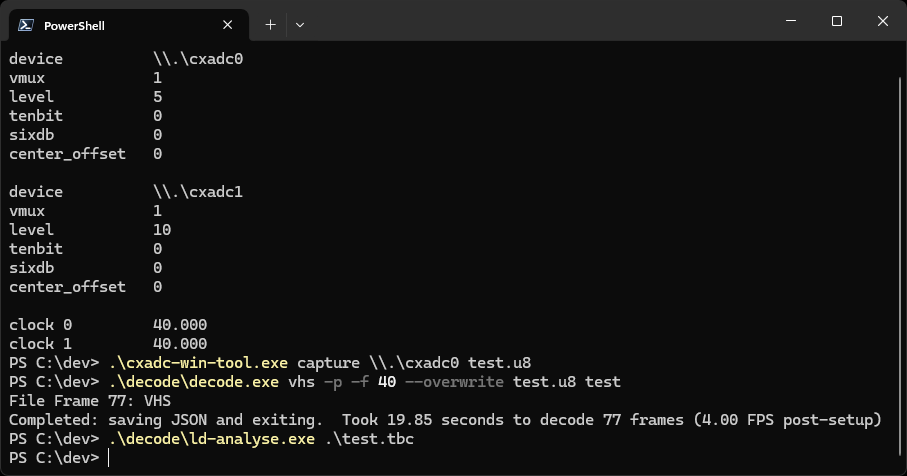
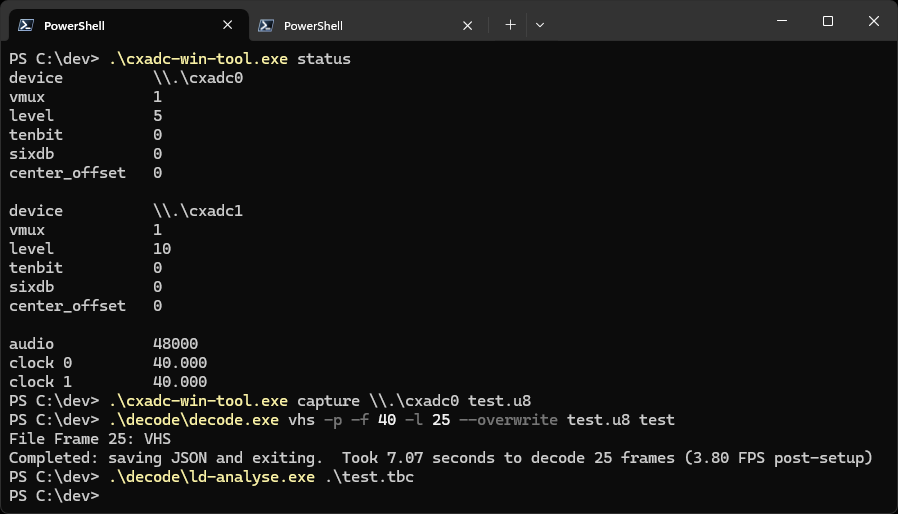
Add clockgen audio rate configuration

Changed region(s): [[0.0, 0.6471, 0.9978, 0.9706], [0.0, 0.0294, 1.0, 0.3529], [0.0, 0.3824, 0.2806, 0.6176]]

diff --git a/cxadc-win-tool/Program.cs b/cxadc-win-tool/Program.cs
@@ -207,43 +207,80 @@ levelAdjCommand.SetHandler((device, startingLevel, sampleCount) =>
 }, inputDeviceArg, levelAdjStartingLevelOption, levelAdjSampelCountOption);
 
 // clockgen command
-var clockIndexArg = new Argument<uint>("clock").FromAmong("0", "1");
-var clockValueArg = new Argument<uint>(
+var clockgenCxClockIndexArg = new Argument<uint>("clock").FromAmong("0", "1");
+var clockgenCxClockValueArg = new Argument<uint>(
     "value",
     description: "1 = 20.00 MHz, 2 = 28.636 MHz, 3 = 40.00 MHz, 4 = 50.000 MHz"
     ).FromAmong("1", "2", "3", "4");
 
-var clockgenGetCommand = new Command("get", "get frequency")
+var clockgenCxGetCommand = new Command("get", "get frequency")
 {
-    clockIndexArg
+    clockgenCxClockIndexArg
 };
 
-clockgenGetCommand.SetHandler((idx) =>
+clockgenCxGetCommand.SetHandler((idx) =>
 {
     using (clockgen = new Clockgen())
     {
         Console.WriteLine($"{clockgen.GetClock(idx):0.000}");
     }
-}, clockIndexArg);
+}, clockgenCxClockIndexArg);
 
-var clockgenSetCommand = new Command("set", "set frequency")
+var clockgenCxSetCommand = new Command("set", "set frequency")
 {
-    clockIndexArg,
-    clockValueArg
+    clockgenCxClockIndexArg,
+    clockgenCxClockValueArg
 };
 
-clockgenSetCommand.SetHandler((idx, valueIdx) =>
+clockgenCxSetCommand.SetHandler((idx, valueIdx) =>
 {
     using (clockgen = new Clockgen())
     {
         clockgen.SetClock(idx, (byte)valueIdx);
     }
-}, clockIndexArg, clockValueArg);
+}, clockgenCxClockIndexArg, clockgenCxClockValueArg);
+
+var clockgenCxCommand = new Command("cx", "configure cx rates")
+{
+    clockgenCxGetCommand,
+    clockgenCxSetCommand
+};
+
+var clockgenAudioRateArg = new Argument<int>("set").FromAmong("46875", "48000");
+
+var clockgenAudioRateSetCommand = new Command("set")
+{
+    clockgenAudioRateArg
+};
+
+clockgenAudioRateSetCommand.SetHandler((rate) =>
+{
+    using (clockgen = new Clockgen())
+    {
+        clockgen.SetAudioRate(rate);
+    }
+}, clockgenAudioRateArg);
+
+var clockgenAudioRateGetCommand = new Command("get");
+
+clockgenAudioRateGetCommand.SetHandler(() =>
+{
+    using (clockgen = new Clockgen())
+    {
+        Console.WriteLine(clockgen.GetAudioRate());
+    }
+});
+
+var clockgenAudioCommand = new Command("audio", "configure audio rate")
+{
+    clockgenAudioRateSetCommand,
+    clockgenAudioRateGetCommand
+};
 
 var clockgenCommand = new Command("clockgen", "configure clockgen")
 {
-    clockgenGetCommand,
-    clockgenSetCommand
+    clockgenCxCommand,
+    clockgenAudioCommand
 };
 
 // scan command
@@ -271,9 +308,11 @@ statusCommand.SetHandler(() =>
     // attempt clockgen
     try
     {
-        for (uint i = 0; i < 2; i++)
+        using (clockgen = new Clockgen())
         {
-            using (clockgen = new Clockgen())
+            Console.WriteLine("{0,-15} {1,-8}", "audio", clockgen.GetAudioRate());
+
+            for (uint i = 0; i < 2; i++)            
             {
                 Console.WriteLine("{0,-15} {1,-8}", $"clock {i}", $"{clockgen.GetClock(i):0.000}");
             }

diff --git a/cxadc-win-tool/Clockgen.cs b/cxadc-win-tool/Clockgen.cs
@@ -7,6 +7,7 @@
 
 using LibUsbDotNet;
 using LibUsbDotNet.Main;
+using System.Buffers.Binary;
 
 namespace cxadc_win_tool;
 
@@ -28,6 +29,51 @@ public class Clockgen : IDisposable
         {
             throw new Exception($"Device {VendorId:X4}:{ProductId:X4} not found, is libusb_win32 filter driver installed?");
         }
+    }
+
+    public int GetAudioRate()
+    {
+        var cmd = new UsbSetupPacket
+        {
+            RequestType = 0xA1,
+            Request = 0x01,
+            Value = 0x0100,
+            Index = 0x0500,
+            Length = 0x0004
+        };
+
+        var buf = new byte[4];
+        var ret = this._device!.ControlTransfer(ref cmd, buf, buf.Length, out var len);
+
+        if (!ret || len == 0)
+        {
+            throw new Exception($"Error reading sample rate {UsbDevice.LastErrorNumber} / {UsbDevice.LastErrorString}");
+        }
+
+        return BinaryPrimitives.ReadInt32LittleEndian(buf);
+    }
+
+    public int SetAudioRate(int rate)
+    {
+        var cmd = new UsbSetupPacket
+        {
+            RequestType = 0x21,
+            Request = 0x01,
+            Value = 0x0100,
+            Index = 0x0500,
+            Length = 0x0004
+        };
+
+        var buf = new byte[4];
+        BinaryPrimitives.WriteInt32LittleEndian(buf, rate);
+        var ret = this._device!.ControlTransfer(ref cmd, buf, buf.Length, out var len);
+
+        if (!ret || len == 0)
+        {
+            throw new Exception($"Error setting sample rate {UsbDevice.LastErrorNumber} / {UsbDevice.LastErrorString}");
+        }
+
+        return BinaryPrimitives.ReadInt32LittleEndian(buf);
     }
 
     public double GetClock(uint clockIdx)

diff --git a/README.md b/README.md
@@ -21,12 +21,14 @@ Parameter       | Range | Default
 `sixdb`         | `0-1`  | `0`
 `center_offset` | `0-63` | `0`
 
-### Configure clockgen
+### Configure clockgen (Optional)
 > [!IMPORTANT]  
 > [Additional steps](#clockgen-optional) are required to configure clockgen  
 
-`cxadc-win-tool clockgen get <clock>`  
-`cxadc-win-tool clockgen set <clock> <value>`  
+`cxadc-win-tool clockgen audio get`  
+`cxadc-win-tool clockgen audio set <rate>`  
+`cxadc-win-tool clockgen cx get <clock>`  
+`cxadc-win-tool clockgen cx set <clock> <value>`  
 
 Value | Frequency (MHz)
 ------|----------------
@@ -44,17 +46,17 @@ Value | Frequency (MHz)
 
 ### Example
 ```
-cxadc-win-tool set \\.\cxadc0 vmux 1   # set cx card 0 vmux to 1 (bnc?)
-cxadc-win-tool set \\.\cxadc1 vmux 1   # set cx card 1 vmux to 1 (bnc?)
-cxadc-win-tool set \\.\cxadc0 level 0  # set cx card 0 level to 0 (amp?)
-cxadc-win-tool set \\.\cxadc1 level 0  # set cx card 1 level to 0 (amp?)
-cxadc-win-tool clockgen set 0 3        # set clock 0 to 40 MHz
-cxadc-win-tool clockgen set 1 3        # set clock 1 to 40 MHz
-cxadc-win-tool status                  # show all device config
-```
+cxadc-win-tool set \\.\cxadc0 vmux 1     # set cx card 0 vmux to 1 (bnc?)
+cxadc-win-tool set \\.\cxadc1 vmux 1     # set cx card 1 vmux to 1 (bnc?)
+cxadc-win-tool set \\.\cxadc0 level 0    # set cx card 0 level to 0 (amp?)
+cxadc-win-tool set \\.\cxadc1 level 0    # set cx card 1 level to 0 (amp?)
 
-## Limitations
-Due to various security features in Windows 10/11, Secure Boot and Signature Enforcement must be disabled. I recommend re-enabling when not capturing.  
+cxadc-win-tool clockgen cx set 0 3       # set clock 0 to 40 MHz
+cxadc-win-tool clockgen cx set 1 3       # set clock 1 to 40 MHz
+cxadc-win-tool clockgen audio set 48000  # set audio sample rate to 48000 (recommended)
+
+cxadc-win-tool status                    # show all device config
+```
 
 ## Download
 Builds are currently only available via [actions](https://github.com/JuniorIsAJitterbug/cxadc-win/actions). You must be logged in to download artifacts.  
@@ -72,17 +74,26 @@ Builds are currently only available via [actions](https://github.com/JuniorIsAJi
 6. Click **Install this driver software anyway** when prompted
 
 ### Clockgen (Optional)
+> [!NOTE]  
+> This has only been tested with the [original](https://gitlab.com/wolfre/cxadc-clock-generator-audio-adc) clockgen, compatibility with [cxadc-clockgen-mod](https://github.com/namazso/cxadc-clockgen-mod) is not guaranteed (24/12/01)  
+
 The [clockgen mod](https://github.com/oyvindln/vhs-decode/wiki/Clockgen-Mod) is configurable via `cxadc-win-tool`.  
 1. Download the latest [libusb-win32](https://github.com/mcuee/libusb-win32) drivers  
 2. Copy `bin\amd64\libusb0.dll` to `C:\Windows\System32`  
 3. Copy `bin\amd64\libusb0.sys` to `C:\Windows\System32\drivers`  
 4. Run `install-filter-win.exe` as Administrator, select **Install a device filter**  
-5. Select `vid:1209 pid:0001 rev:0000 | USB Composite Device`, click **Install**	
-
-*The 3rd audio channel does not work correctly on Windows. (24/11/30)*  
+5. Select `vid:1209 pid:0001 rev:0000 | USB Composite Device`, click **Install**	 
 
 ## Building
 This has only been tested with VS 2022, WSDK/WDK 10.0.26100 and .NET 8.0.  
+
+## Limitations
+Due to various security features in Windows 10/11, Secure Boot and Signature Enforcement must be disabled. I recommend re-enabling when not capturing.  
+
+## Known issues
+#### Clockgen
+- Windows reports incorrect audio sample rate, set to 48000 to avoid issues (24/12/01)
+- The 3rd audio channel (HSW) does not work correctly (24/11/30) 
 
 ## Disclaimer
 I take absolutely no responsibility for (including but not limited to) any crashes, instability, security vulnerabilities or interactions with anti-virus/anti-cheat software, nor do I guarantee the accuracy of captures.  
